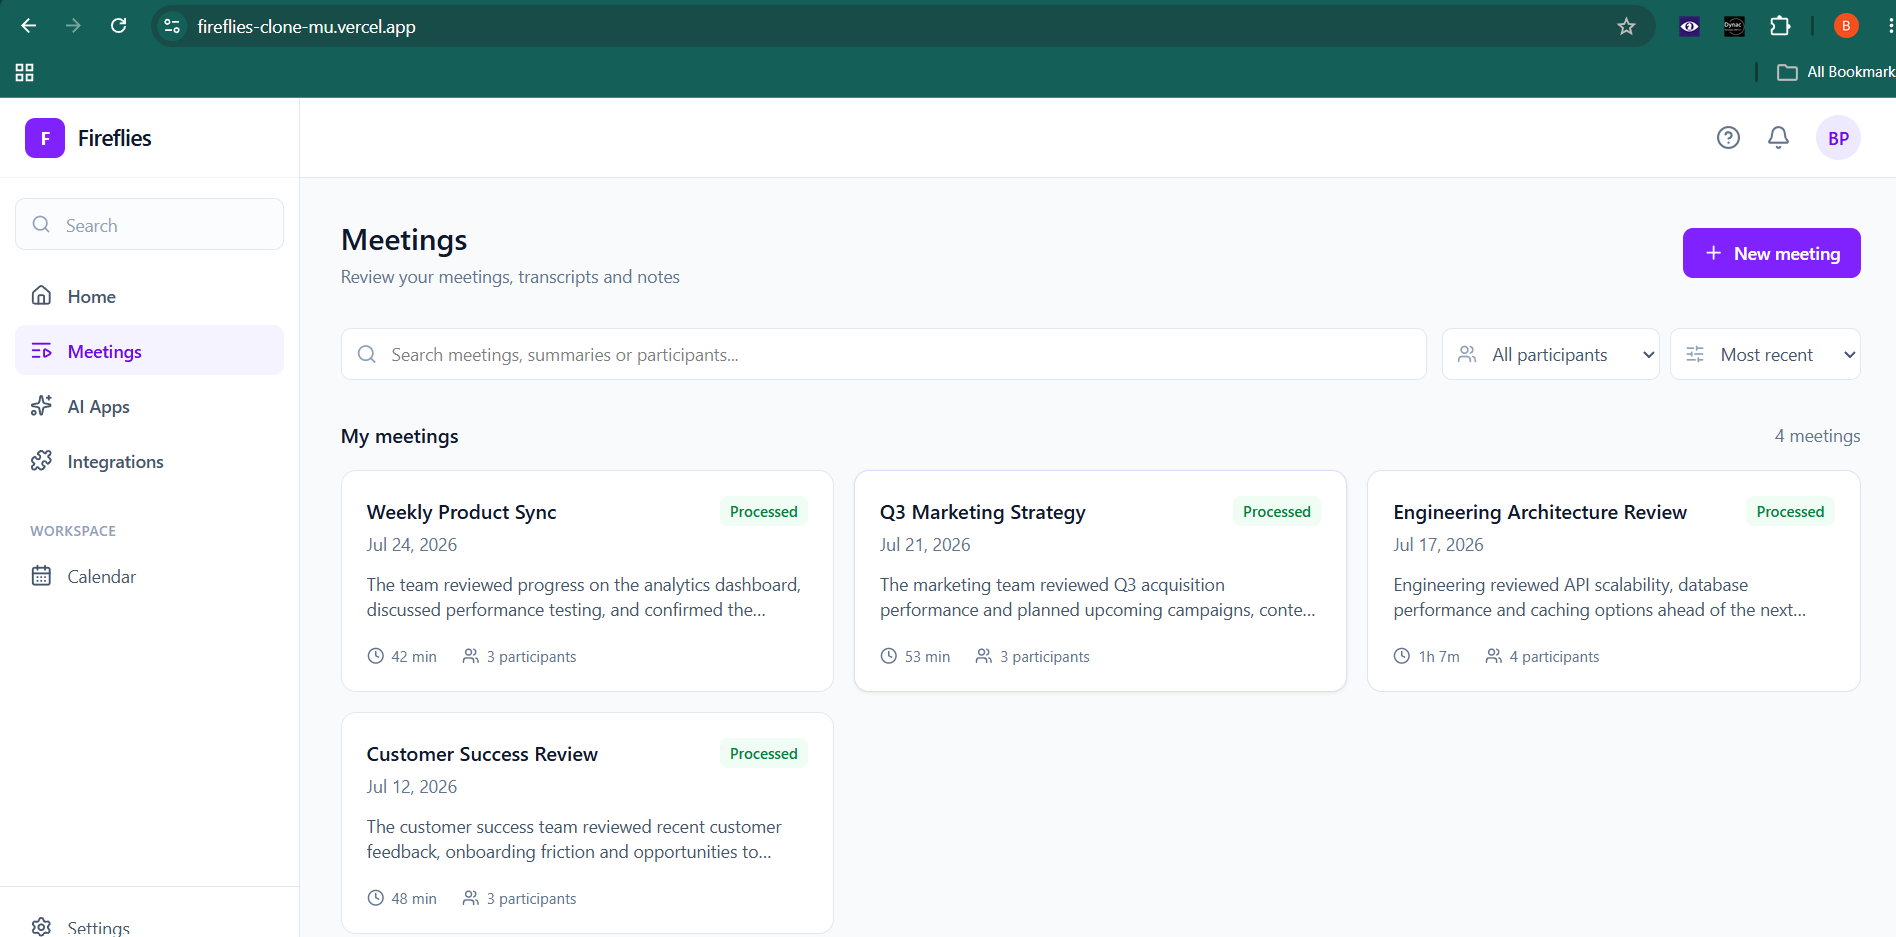
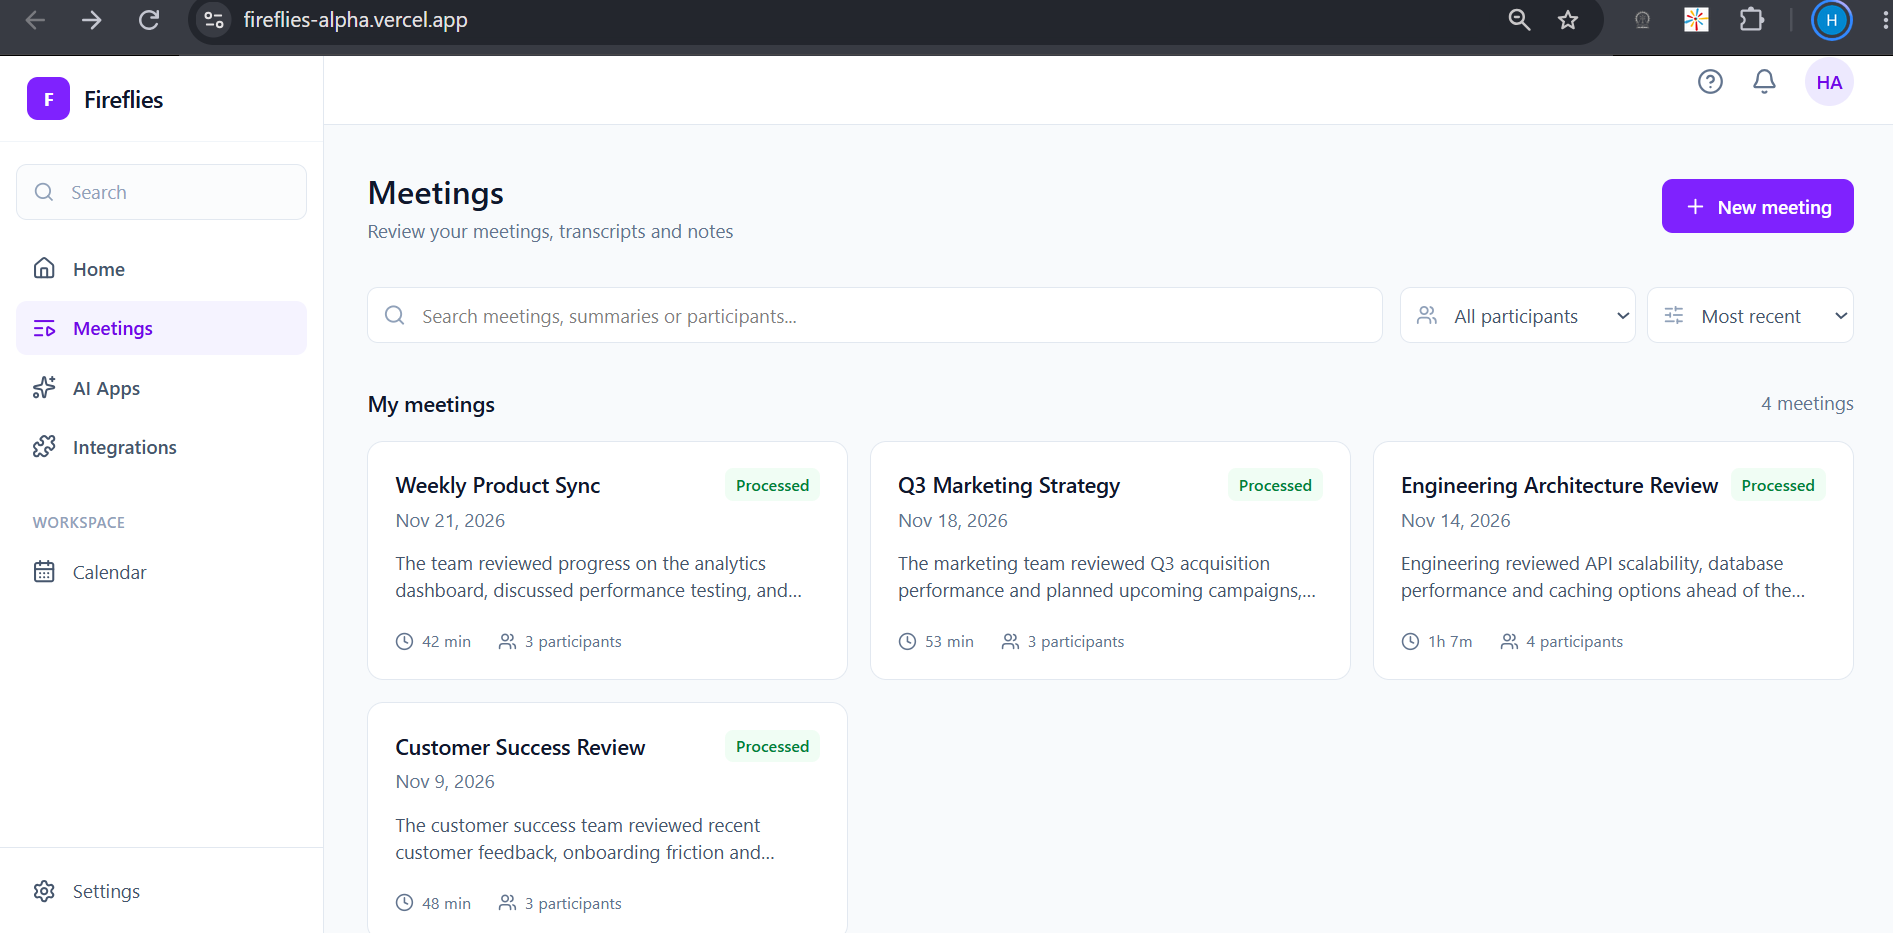
Updated

diff --git a/README.md b/README.md
@@ -4,7 +4,7 @@ A full-stack meeting intelligence application inspired by Fireflies.ai.
 
 The application provides a central workspace for managing meetings, reviewing summaries, exploring speaker-attributed transcripts, tracking action items, and navigating meeting topics.
 
-It is built with **Next.js + TypeScript** on the frontend and **FastAPI + SQLAlchemy** on the backend, with **PostgreSQL** providing persistent production storage.
+It is built with **Next.js + TypeScript** on the frontend and **FastAPI + SQLAlchemy** on the backend, with **Neon PostgreSQL** providing persistent production storage and **Google Gemini** powering AI-assisted meeting insights.
 
 ---
 
@@ -12,15 +12,15 @@ It is built with **Next.js + TypeScript** on the frontend and **FastAPI + SQLAlc
 
 **Frontend**
 
-https://fireflies-clone-mu.vercel.app
+https://fireflies-alpha.vercel.app
 
 **Backend API**
 
-(https://fireflies-clone-wkk2.onrender.com/)
+https://fireflies-ai-ojre.onrender.com
 
 **Interactive API Documentation**
 
-(https://fireflies-clone-wkk2.onrender.com/)/docs
+https://fireflies-ai-ojre.onrender.com/docs
 
 
 > The application is hosted using free-tier infrastructure. The backend may take a short time to wake up after a period of inactivity.
@@ -142,6 +142,14 @@ Highlight active transcript segment
 
 ---
 
+### AI-Assisted Meeting Insights
+
+The backend integrates the Google Gemini API to generate meeting summaries from transcript content and extract actionable tasks. Extracted action items can be reviewed and managed in the same meeting workspace. AI calls are made from FastAPI so the Gemini API key stays on the server.
+
+AI output depends on the quality of the transcript and should be reviewed before use.
+
+---
+
 ### Action Items
 
 Action items can be managed directly from a meeting.
@@ -180,6 +188,7 @@ Transcripts can be added by:
 
 - Pasting transcript text
 - Uploading a `.txt` file
+- Uploading a `.vtt` (WebVTT) file with timestamped cues and speaker information
 
 The parser supports speaker-attributed transcripts such as:
 
@@ -197,30 +206,13 @@ Timestamped transcripts are also supported:
 [00:31] David: The API integration is complete.
 ```
 
-Parsed transcript entries are converted into structured transcript segments before being stored by the backend.
+Parsed transcript entries are converted into structured transcript segments before being stored by the backend. VTT files are parsed server-side and saved as timestamped segments.
 
 ---
 
 ## Demo Data
 
-The deployed application contains sample meetings covering different types of team discussions.
-
-Examples include:
-
-- Weekly Product Sync
-- Q3 Marketing Strategy
-- Engineering Architecture Review
-- Customer Success Review
-
-The demo meetings contain realistic:
-
-- Participants
-- Summaries
-- Transcript segments
-- Topics
-- Action items
-
-This allows search, filtering, sorting, transcript navigation, and action-item functionality to be tested immediately.
+The project supports meeting records, participants, summaries, transcript segments, topics, and action items. Local SQLite records are **not automatically migrated** to the production Neon PostgreSQL database. Production data can be created through the deployed application; sample records appear only if they have been seeded or added to Neon.
 
 ---
 
@@ -241,12 +233,13 @@ This allows search, filtering, sorting, transcript navigation, and action-item f
 - SQLAlchemy
 - Pydantic
 - Uvicorn
+- Google Gen AI Python SDK (`google-genai`)
 
 ### Database
 
 **Production**
 
-- PostgreSQL
+- Neon PostgreSQL
 
 **Local development**
 
@@ -256,7 +249,8 @@ This allows search, filtering, sorting, transcript navigation, and action-item f
 
 - Vercel — Next.js frontend
 - Render — FastAPI backend
-- Render PostgreSQL — persistent production database
+- Neon — managed PostgreSQL database
+- Google Gemini API — AI-generated summaries and action-item extraction
 
 ---
 
@@ -294,14 +288,14 @@ This allows search, filtering, sorting, transcript navigation, and action-item f
 ┌─────────────────────────────────┐
 │                                 │
 │       PostgreSQL Database       │
-│             Render              │
+│              Neon               │
 │                                 │
 │       Persistent Storage        │
 │                                 │
 └─────────────────────────────────┘
 ```
 
-The frontend and backend are deployed independently and communicate through a REST API.
+The frontend and backend are deployed independently and communicate through a REST API. FastAPI connects to Neon through SQLAlchemy and calls Google Gemini for AI-assisted summaries and action-item extraction.
 
 ---
 
@@ -312,6 +306,7 @@ fireflies-clone/
 │
 ├── backend/
 │   ├── app/
+│   │   ├── services/
 │   │   ├── models/
 │   │   ├── routers/
 │   │   ├── database.py
@@ -438,6 +433,8 @@ DELETE  /api/meetings/{id}
 ```text
 GET     /api/meetings/{id}/transcript
 POST    /api/meetings/{id}/transcript
+POST    /api/meetings/{id}/transcript/upload
+POST    /api/meetings/{id}/generate-summary
 ```
 
 ### Action Items
@@ -447,6 +444,7 @@ GET     /api/meetings/{id}/action-items
 POST    /api/meetings/{id}/action-items
 PATCH   /api/action-items/{id}
 DELETE  /api/action-items/{id}
+POST    /api/meetings/{id}/action-items/extract
 ```
 
 ### Topics
@@ -480,8 +478,8 @@ Make sure the following are installed:
 ## 1. Clone the Repository
 
 ```bash
-git clone YOUR_GITHUB_REPOSITORY_URL
-cd fireflies-clone
+git clone https://github.com/harshitaagrawal634/fireflies.git
+cd fireflies
 ```
 
 ---
@@ -534,6 +532,7 @@ Add:
 
 ```env
 FRONTEND_URL=http://localhost:3000
+GEMINI_API_KEY=your_gemini_api_key
 ```
 
 `DATABASE_URL` is optional during local development.
@@ -676,6 +675,7 @@ In production this points to the deployed Render backend.
 
 ```env
 FRONTEND_URL=http://localhost:3000
+GEMINI_API_KEY=your_gemini_api_key
 ```
 
 In production this points to the deployed Vercel frontend.
@@ -683,7 +683,8 @@ In production this points to the deployed Vercel frontend.
 Production also uses:
 
 ```env
-DATABASE_URL=<postgresql-connection-string>
+DATABASE_URL=<neon-postgresql-connection-string>
+GEMINI_API_KEY=<your-gemini-api-key>
 ```
 
 `DATABASE_URL` should never be committed to source control.
@@ -710,15 +711,9 @@ This keeps local setup simple while providing persistent production storage.
 
 ---
 
-## Demo Database Seeding
+## Database Initialization and Demo Data
 
-The application includes an idempotent seed process for demo data.
-
-During backend startup, existing seeded meetings are detected before insertion.
-
-This means redeploying the backend does not continually duplicate demo meetings.
-
-The seed process allows the deployed application to provide useful example data immediately while preserving user-created meetings in PostgreSQL.
+The backend uses SQLAlchemy models for its relational schema. Database tables and demo records are different: creating tables does not automatically copy existing local SQLite data into Neon. Verify initialization and any optional seed process against the running backend before relying on sample meetings.
 
 ---
 
@@ -817,13 +812,13 @@ Player seeks to timestamp
 
 ---
 
-### PostgreSQL for Production
+### Neon PostgreSQL for Production
 
 The initial implementation used SQLite.
 
 SQLite is suitable for local development but a standard Render web service uses an ephemeral filesystem. A database file stored there may disappear after a service redeployment.
 
-The production application therefore uses PostgreSQL.
+The production application therefore uses managed PostgreSQL on Neon.
 
 SQLite remains available as the zero-configuration local-development fallback.
 
@@ -848,13 +843,14 @@ The FastAPI API is deployed on Render.
 Production environment variables include:
 
 ```env
-FRONTEND_URL=https://fireflies-clone-mu.vercel.app
-DATABASE_URL=<Render PostgreSQL internal URL>
+FRONTEND_URL=https://fireflies-alpha.vercel.app
+DATABASE_URL=<Neon PostgreSQL connection string>
+GEMINI_API_KEY=<Gemini API key>
 ```
 
 ### Database
 
-Production data is persisted in PostgreSQL rather than the web service filesystem.
+Production data is persisted in Neon PostgreSQL rather than the web service filesystem.
 
 This ensures meetings and action-item changes survive backend restarts and redeployments.
 
@@ -863,8 +859,8 @@ This ensures meetings and action-item changes survive backend restarts and redep
 ## Limitations
 
 - Playback is simulated using transcript timing rather than actual uploaded meeting audio/video.
-- Transcript import currently supports plain-text transcripts.
-- Meeting summaries and topics are stored as structured meeting data rather than generated dynamically through an external LLM.
+- Transcript import supports plain-text and WebVTT files; automatic audio transcription is not implemented.
+- AI-assisted summary generation and action-item extraction use Gemini; automatic AI topic extraction is not included.
 - Automatic speech-to-text transcription is outside the current scope.
 - Authentication is not currently implemented.
 - Multi-user organisations and workspaces are outside the current scope.
@@ -879,9 +875,7 @@ Potential extensions include:
 - Real audio and video upload
 - Audio/video playback
 - Automatic speech-to-text transcription
-- AI-generated meeting summaries
 - Automatic topic extraction
-- Automatic action-item detection
 - Speaker identification
 - Authentication
 - Team workspaces
@@ -899,27 +893,18 @@ Potential extensions include:
 
 ## Production Verification
 
-The deployed application has been tested for:
+After deployment, verify the following end-to-end flows on the live Vercel frontend and Render API:
 
-- Meeting retrieval
-- Meeting creation
-- Meeting editing
-- Meeting deletion
-- PostgreSQL persistence
-- Search
-- Participant filtering
-- Meeting sorting
-- Transcript rendering
-- Transcript searching
-- Timestamp navigation
-- Playback controls
-- Action-item creation
-- Action-item editing
-- Action-item completion
-- Action-item deletion
-- Error handling
-- Production frontend build
-- CORS between Vercel and Render
+- Open `/docs` on the deployed FastAPI service.
+- Create a meeting and confirm its row appears in Neon.
+- Edit and delete a meeting; verify the changes persist.
+- Import `.txt` and `.vtt` transcripts and inspect timestamped segments.
+- Generate a summary with Gemini and extract action items.
+- Edit, complete, and delete action items.
+- Test search, participant filtering, sorting, and transcript navigation.
+- Confirm browser requests are allowed by the backend's CORS configuration.
+
+This is a verification checklist, not a claim that every test has already passed in production.
 
 ---
 
